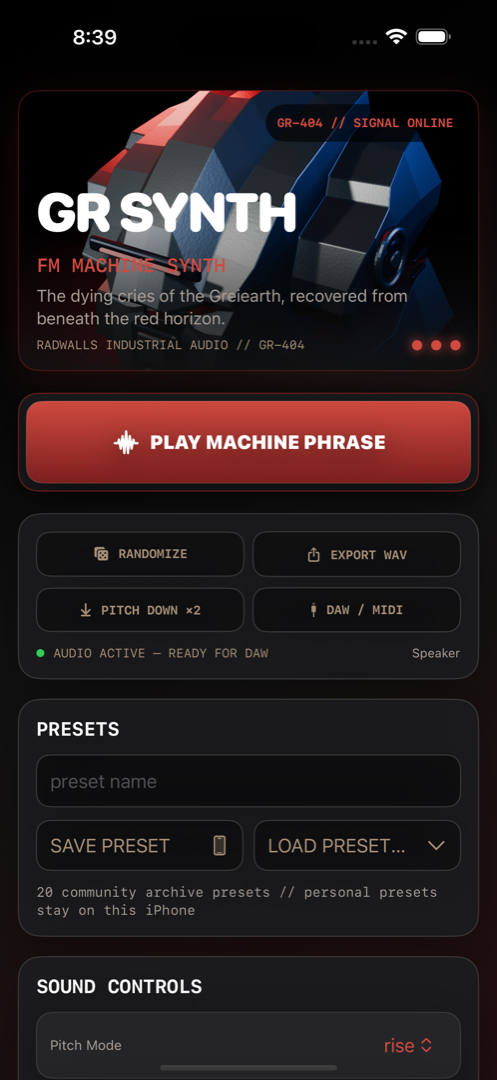
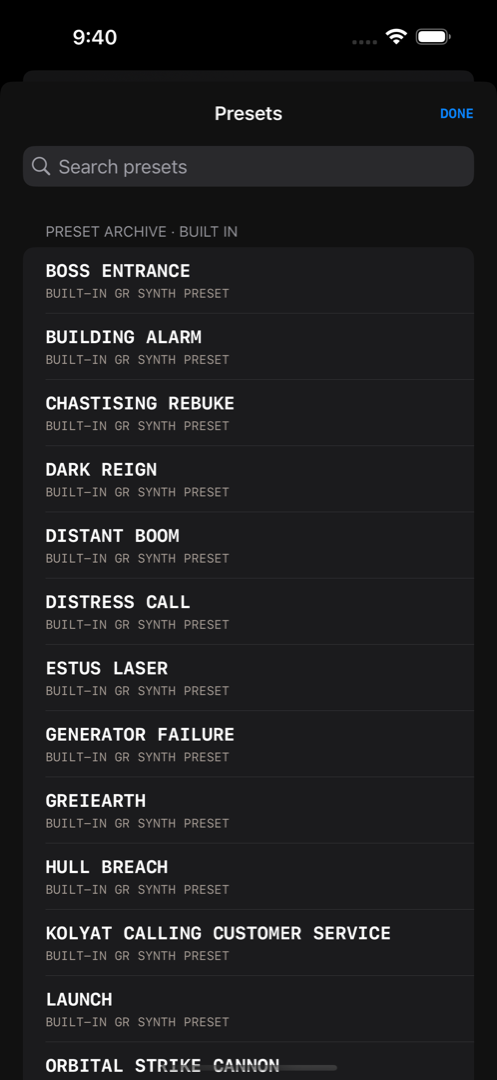
Credit app catalog to Endless Vocals

diff --git a/privacy.html b/privacy.html
@@ -4,7 +4,7 @@
   <meta charset="utf-8">
   <meta name="viewport" content="width=device-width, initial-scale=1">
   <title>GR Synth Privacy Policy</title>
-  <meta name="description" content="Privacy policy for the GR Synth iPhone app by Radwalls.">
+  <meta name="description" content="Privacy policy for the GR Synth iPhone app by Endless Vocals.">
   <style>
     :root { color-scheme: dark; font-family: ui-monospace, SFMono-Regular, Menlo, Monaco, Consolas, monospace; }
     * { box-sizing: border-box; }
@@ -21,12 +21,12 @@
 </head>
 <body>
   <main>
-    <p class="eyebrow">Radwalls Industrial Audio</p>
+    <p class="eyebrow">Endless Vocals</p>
     <h1>GR Synth Privacy Policy</h1>
     <p>Effective July 30, 2026</p>
 
     <div class="panel">
-      <p>GR Synth is an iPhone synthesizer created by Radwalls. The GR Synth iPhone app does not collect, transmit, sell, or share personal data.</p>
+      <p>GR Synth is an iPhone synthesizer created by Endless Vocals. The GR Synth iPhone app does not collect, transmit, sell, or share personal data.</p>
 
       <h2>Data collection and tracking</h2>
       <ul>
@@ -38,17 +38,17 @@
       </ul>
 
       <h2>Presets and app storage</h2>
-      <p>GR Synth includes 21 read-only presets bundled inside the app. They do not require a network connection. Personal presets that you create are stored only on your iPhone using the app's local storage and are not available to Radwalls or other users.</p>
+      <p>GR Synth includes 21 read-only presets bundled inside the app. They do not require a network connection. Personal presets that you create are stored only on your iPhone using the app's local storage and are not available to Endless Vocals or other users.</p>
       <p>You can delete a personal preset inside the app. Removing the app from your iPhone also removes its locally stored presets, subject to your own device backup settings.</p>
 
       <h2>Audio and WAV exports</h2>
-      <p>Synthesis and WAV rendering happen on your device. GR Synth creates an audio file only when you request an export. The file leaves the app only when you choose a destination through Apple's share sheet, such as Files or AirDrop. Radwalls does not receive or retain exported audio.</p>
+      <p>Synthesis and WAV rendering happen on your device. GR Synth creates an audio file only when you request an export. The file leaves the app only when you choose a destination through Apple's share sheet, such as Files or AirDrop. Endless Vocals does not receive or retain exported audio.</p>
 
       <h2>MIDI and audio connections</h2>
-      <p>Optional Core MIDI and USB audio connections are processed by iOS and the devices or apps you choose to connect. GR Synth does not send MIDI or audio data to Radwalls.</p>
+      <p>Optional Core MIDI and USB audio connections are processed by iOS and the devices or apps you choose to connect. GR Synth does not send MIDI or audio data to Endless Vocals.</p>
 
       <h2>Apple services</h2>
-      <p>Apple may process App Store downloads, purchases, diagnostics, or information you choose to share with Apple under <a href="https://www.apple.com/legal/privacy/">Apple's Privacy Policy</a>. Radwalls does not receive your full payment details and does not add third-party analytics to GR Synth.</p>
+      <p>Apple may process App Store downloads, purchases, diagnostics, or information you choose to share with Apple under <a href="https://www.apple.com/legal/privacy/">Apple's Privacy Policy</a>. Endless Vocals does not receive your full payment details and does not add third-party analytics to GR Synth.</p>
 
       <h2>Website scope</h2>
       <p>This policy applies to the native GR Synth iPhone app. The separate browser-based synthesizer on radwall.com is a website service and is not included in the iPhone app binary.</p>
@@ -63,7 +63,7 @@
       <p>Privacy questions: <a href="mailto:Radwalls@gmail.com">Radwalls@gmail.com</a></p>
     </div>
 
-    <footer>GR Synth // Radwalls // Long Beach, California</footer>
+    <footer>GR Synth // Endless Vocals // Long Beach, California</footer>
   </main>
 </body>
 </html>

diff --git a/apps/index.html b/apps/index.html
@@ -3,25 +3,25 @@
 <head>
   <meta charset="utf-8">
   <meta name="viewport" content="width=device-width, initial-scale=1">
-  <title>iPhone Apps by Radwalls</title>
-  <meta name="description" content="OwnStems and GR Synth: original music tools for iPhone by Radwalls.">
+  <title>iPhone Apps by Endless Vocals</title>
+  <meta name="description" content="OwnStems and GR Synth: original music tools for iPhone by Endless Vocals.">
   <link rel="canonical" href="https://www.radwall.com/apps/">
   <link rel="stylesheet" href="/apps/styles.css">
 </head>
 <body>
   <header class="site-header shell">
-    <a class="brand" href="/">Radwalls <span>/ apps</span></a>
+    <a class="brand" href="https://endlessvocals.com/">Endless Vocals <span>/ apps</span></a>
     <nav aria-label="Primary navigation"><a href="/">Music</a><a href="https://endlessvocals.com/shop.html#iphone-apps">Endless Vocals store ↗</a><a href="mailto:radwalls@gmail.com">Support</a></nav>
   </header>
 
   <main class="shell">
     <section class="hero">
-      <p class="eyebrow">Radwalls software · iPhone</p>
-      <h1>iPhone apps by Radwalls.</h1>
+      <p class="eyebrow">Endless Vocals software · iPhone</p>
+      <h1>iPhone apps by Endless Vocals.</h1>
       <p>OwnStems and GR Synth: two focused tools for making, shaping, and moving sounds into your sessions.</p>
     </section>
 
-    <section class="app-list" aria-label="Radwalls iPhone apps">
+    <section class="app-list" aria-label="Endless Vocals iPhone apps">
       <article class="app-card ownstems" id="ownstems">
         <div class="app-copy">
           <p class="eyebrow">Original music only</p>
@@ -53,6 +53,6 @@
     </section>
   </main>
 
-  <footer><div class="footer-inner shell"><span>Radwalls · Long Beach, California</span><span><a href="mailto:radwalls@gmail.com">radwalls@gmail.com</a> · <a href="https://endlessvocals.com/">Endless Vocals</a></span></div></footer>
+  <footer><div class="footer-inner shell"><span>Endless Vocals apps · Long Beach, California</span><span><a href="mailto:radwalls@gmail.com">radwalls@gmail.com</a> · <a href="https://endlessvocals.com/">Endless Vocals</a></span></div></footer>
 </body>
 </html>

diff --git a/index.html b/index.html
@@ -267,7 +267,7 @@
         </div>
 
         <section class="plugin-feature" aria-labelledby="plugin-feature-title">
-            <div class="eyebrow">Rad Walls × Endless Vocals</div>
+            <div class="eyebrow">Endless Vocals</div>
             <h3 id="plugin-feature-title">Apps &amp; Audio Tools</h3>
             <p>iPhone apps, plug-ins, instruments, and vocal training packs.</p>
             <div class="plugin-feature-links">
